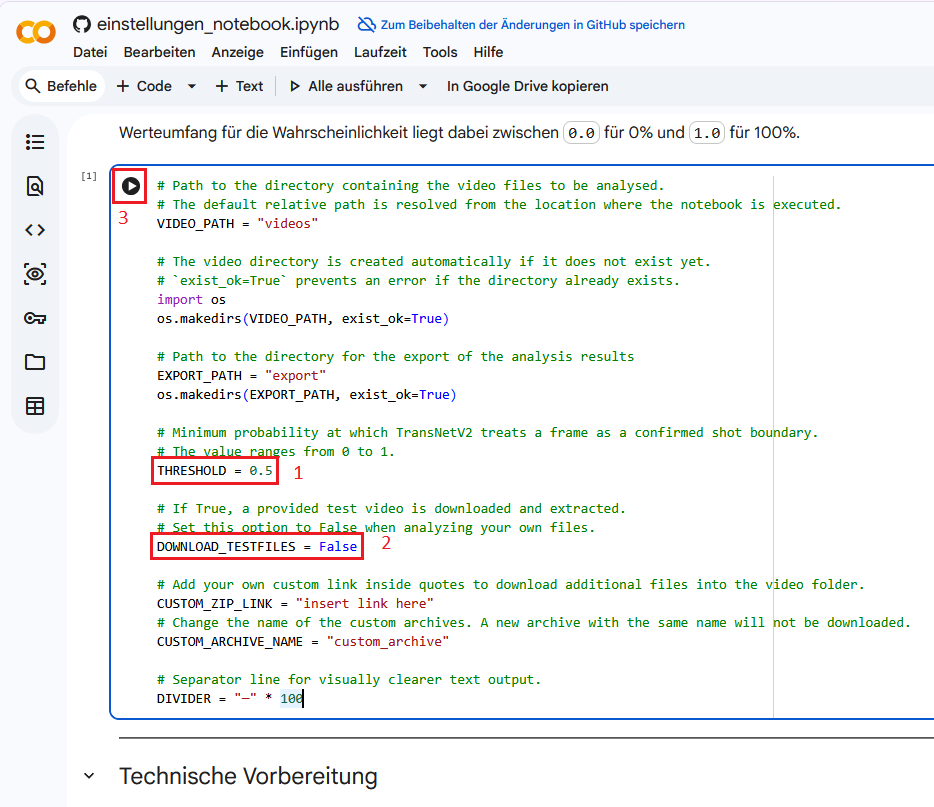
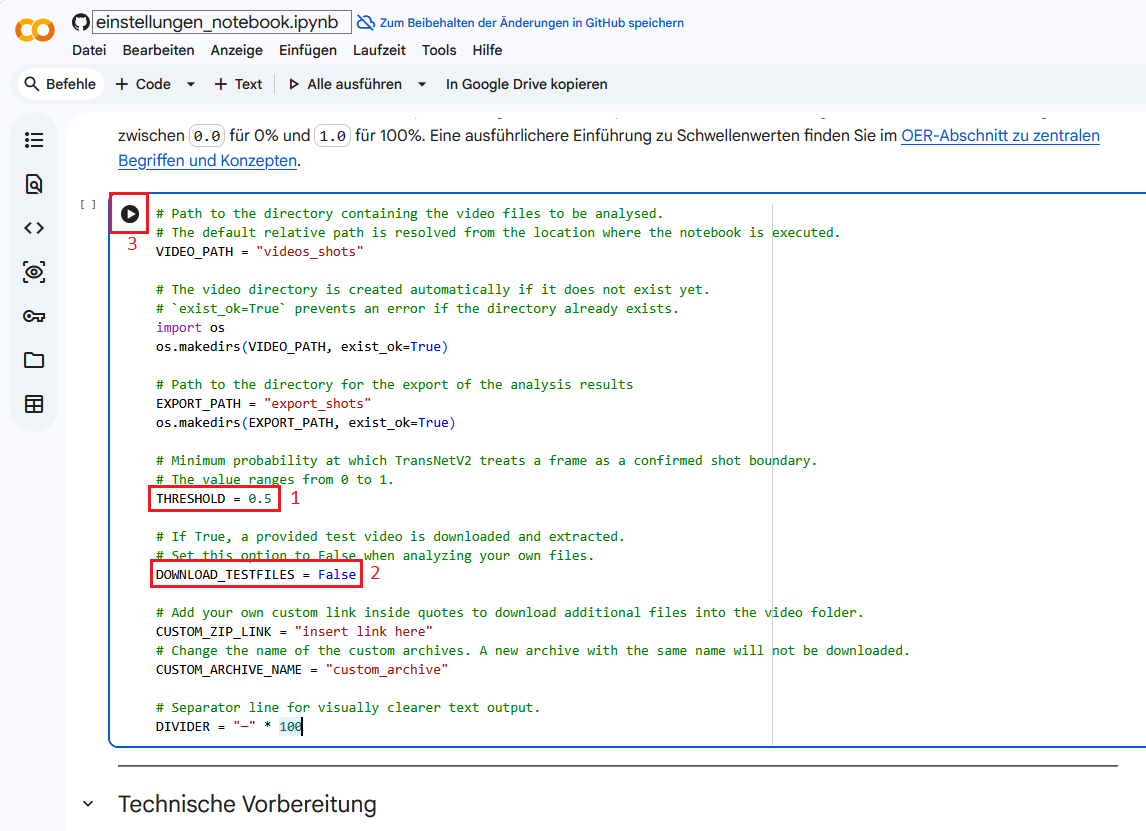
Update einstellungen_datensichtung.md

diff --git a/annotation/einstellung_datensichtung.md b/annotation/einstellung_datensichtung.md
@@ -121,7 +121,19 @@ Mit `THRESHOLD = 0.5` wird der Schwellenwert eingestellt, hier ist er mit 0.5 fe
 
 Da Sie dieses Mal mit einer eigenen Videodatei arbeiten wollen, müssen Sie zusätzlich `DOWNLOAD_TESTFILES = False` setzen, damit die für Demonstrationszwecke vorbereitete Videodatei nicht heruntergeladen wird. (2) Standardmäßig ist dieser Parameter im Notebook auf `True` eingestellt.
 
-Führen Sie nun den Codeblock durch einen Klick auf das Dreieckssymbol oben links im Block aus. (3) Evtl. wird eine Warnung angezeigt, dass das Notebook nicht von Google erstellt wurde, klicken Sie auf "Trotzdem ausführen" rechts unten. Dadurch werden die Ordner "videos" und "export" in der Colab-Umgebung erstellt.
+Führen Sie nun den Codeblock durch einen Klick auf das Dreieckssymbol oben links im Block aus. (3)
+
+```{figure} ../assets/annotation/warnung_google.png
+---
+align: center
+width: 100%
+name: warnung google einstellungen
+alt: Warnmeldung vor der Ausführung des Notebooks.
+---
+Warnmeldung vor der Ausführung des Notebooks.
+```
+
+Evtl. wird eine Warnung angezeigt, dass das Notebook nicht von Google erstellt wurde, klicken Sie auf "Trotzdem ausführen" rechts unten. Dadurch werden die Ordner "videos_shots" und "export_shots" in der Colab-Umgebung erstellt.
 
 Nun wird die Videodatei, hier die Trailerdatei, in die Colab-Umgebung hochgeladen.
 
@@ -135,7 +147,7 @@ alt: Ordner für die Videodateien in Colab.
 Ordner für die Videodateien in Colab.
 ```
 
-Klicken Sie auf das Ordnersymbol in der linken Randspalte von Colab. (1) Es öffnet sich eine Liste mit den verfügbaren Ordnern. In den Ordner "videos" laden Sie die zu annotierende Trailerdatei hoch. (2) Wenn Sie mit der Maus auf den Ordnernamen deuten werden rechts drei Punkte sichtbar, ein Klick auf die Punkte öffnet ein Fenster zum Hochladen der Datei.
+Klicken Sie auf das Ordnersymbol in der linken Randspalte von Colab. (1) Es öffnet sich eine Liste mit den verfügbaren Ordnern. In den Ordner "videos_shots" laden Sie die zu annotierende Trailerdatei hoch. (2) Wenn Sie mit der Maus auf den Ordnernamen deuten werden rechts drei Punkte sichtbar, ein Klick auf die Punkte öffnet ein Fenster zum Hochladen der Datei.
 
 Führen Sie nun die weiteren Codeblöcke des Notebooks nacheinander aus.
 
@@ -153,7 +165,7 @@ Klicken Sie hierzu wiederum bei jedem Codeblock auf das Dreiecksymbol in der lin
 
 Durch einen Klick auf "Alle ausführen" in der Colab Kopfzeile können auch alle Codeblöcke automatisch nacheinander ausgeführt werden. (2) Dies vereinfacht den Ablauf, wenn Sie etwa lediglich den Schwellenwert ändern wollen und alle Codeblöcke in einen ersten Durchlauf bereits erfolgreich ausgeführt wurden.
 
-```{figure} ../assets/annotation/notebook_export.png
+```{figure} ../assets/annotation/einstellungen_nb_export.png
 ---
 align: center
 width: 100%
@@ -163,7 +175,12 @@ alt: Export der Annotationsdateien.
 Export der Annotationsdateien.
 ```
 
-Am Ende des Notebooks werden die entstandenen Annotationsdateien im Ordner "export" der Colab-Umgebung abgelegt. (1) Zusätzlich öffnet sich ein Dialogfenster, mit dem Sie die Annotationsdateien als Zip-Datei mit dem Namen `export.zip` auf Ihrem Computer speichern können. (2)
+Am Ende des Notebooks werden die entstandenen Annotationsdateien im Ordner "export_shots" der Colab-Umgebung abgelegt. (1) Zusätzlich öffnet sich ein Dialogfenster, mit dem Sie die Annotationsdateien als Zip-Datei mit dem Namen `export.zip` auf Ihrem Computer speichern können. (2)
+
+```{admonition} Achtung
+:class: caution
+Beim mehrmaligen Ausführen des Jupyter Notebooks, etwa mit neuen Schwellenwerten, werden die erzeugten Annotationsergebnisse im Ordner "export_characters" durch die neu erzeugten Dateien überschrieben. Sie sollten also darauf achten, dass sie vor jedem neuen Durchgang die bereits vorhandenen Exportdateien zu den Annotationsergebnissen auf Ihrem Rechner lokal abspeichern, um auch weiterhin mit ihnen arbeiten zu können.
+```
 
 Entpacken Sie ggf. die Exportdateien in einen Ordner ihrer Wahl. Importieren Sie nun die Annotationsergebnisse mit der `.eaf-Datei` in VIAN (vgl. "Hinweis zum Import von .eaf-Dateien in VIAN" in diesem Kapitel).
 
